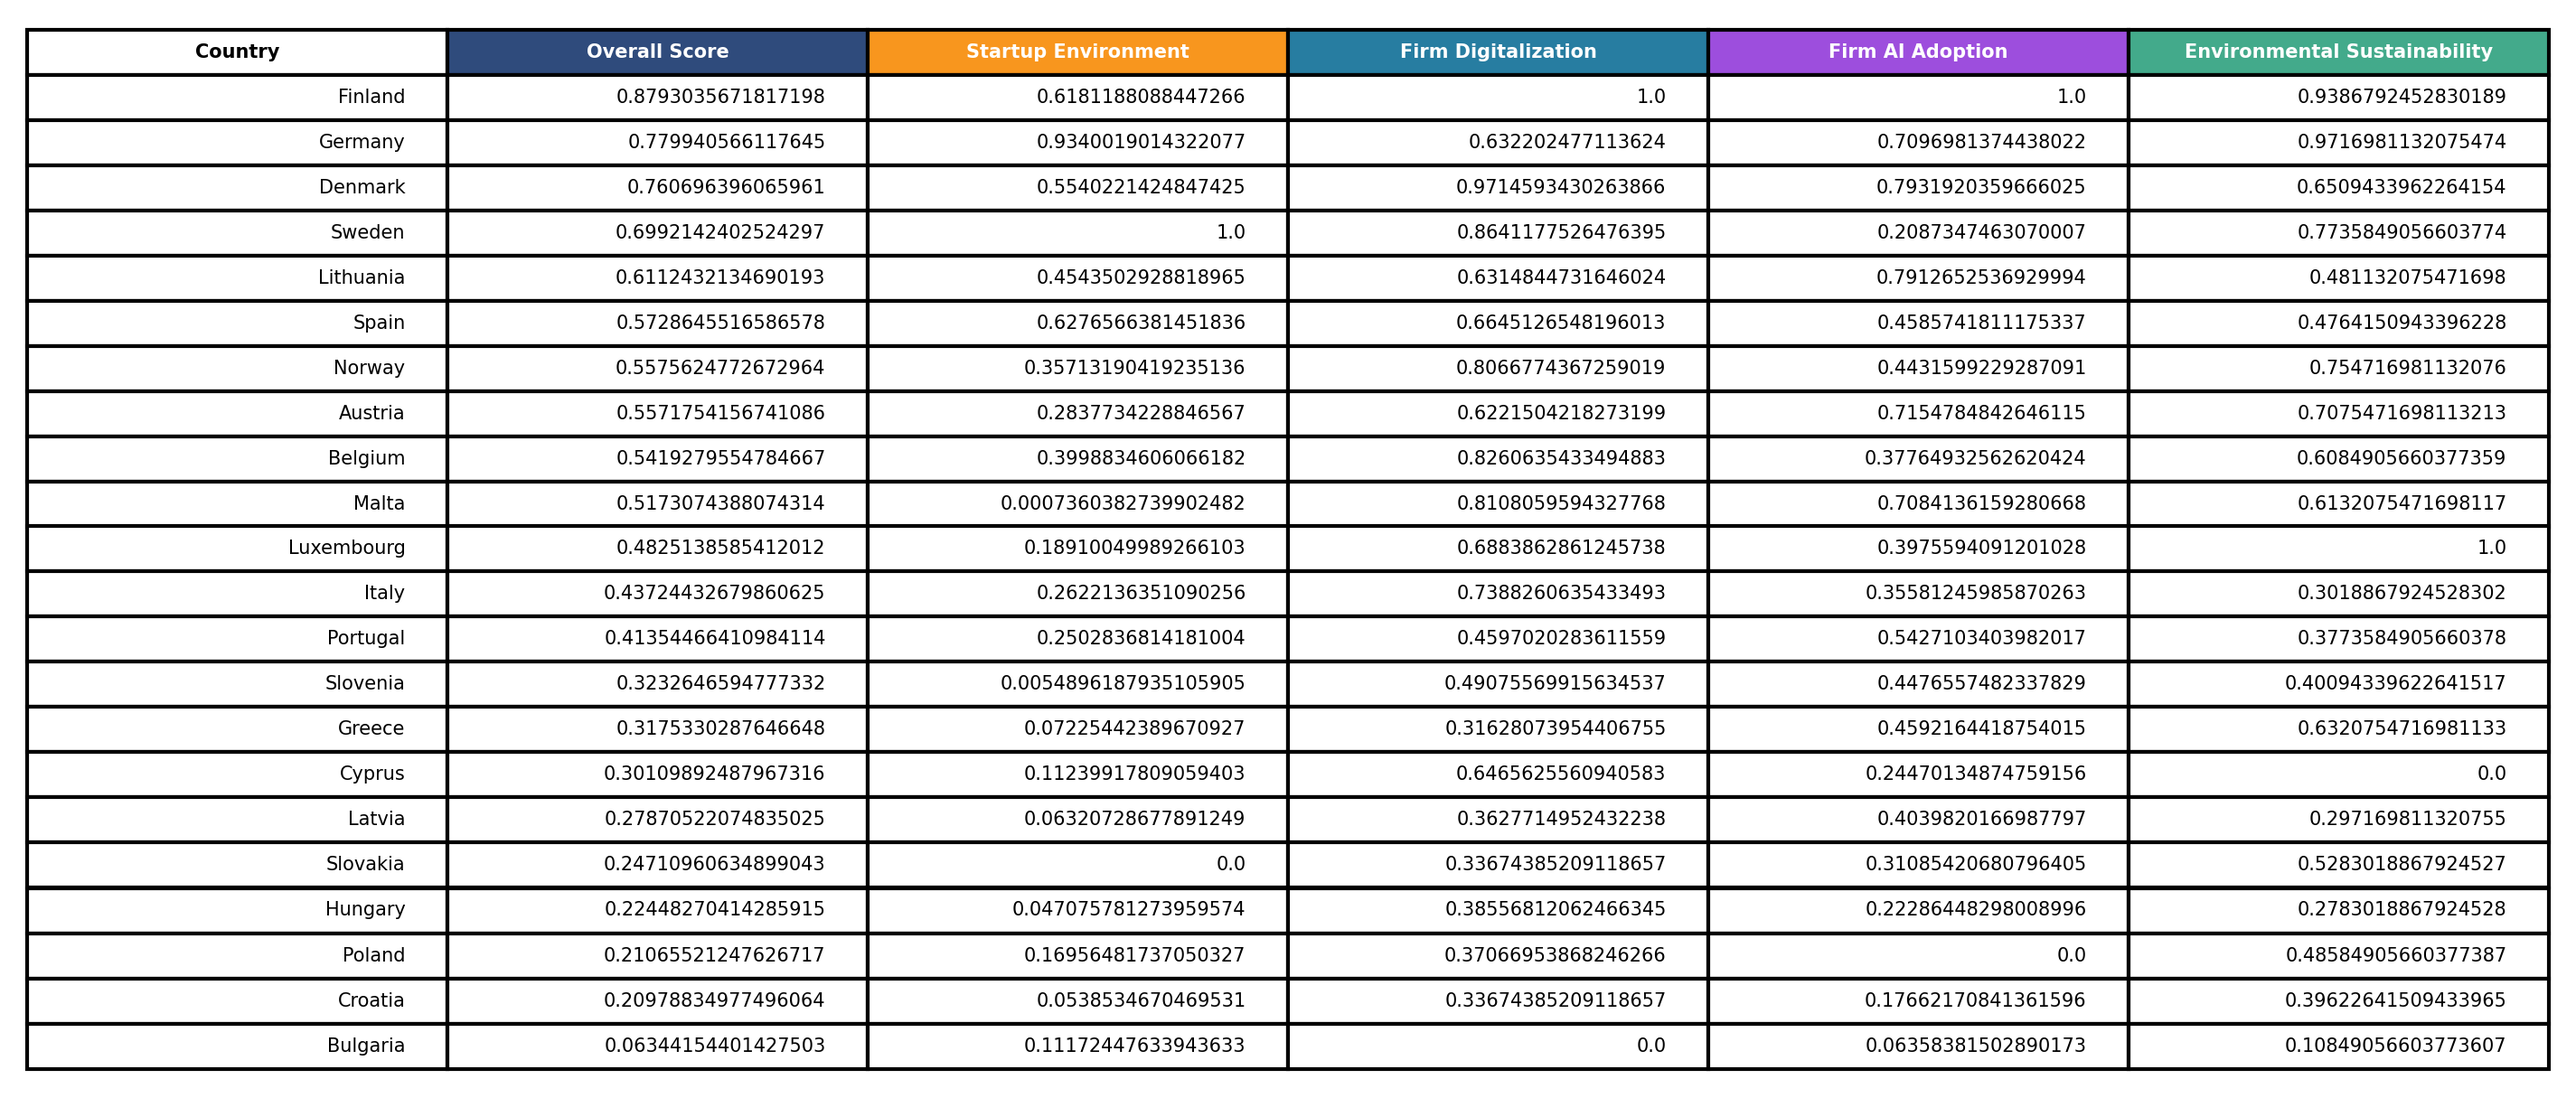
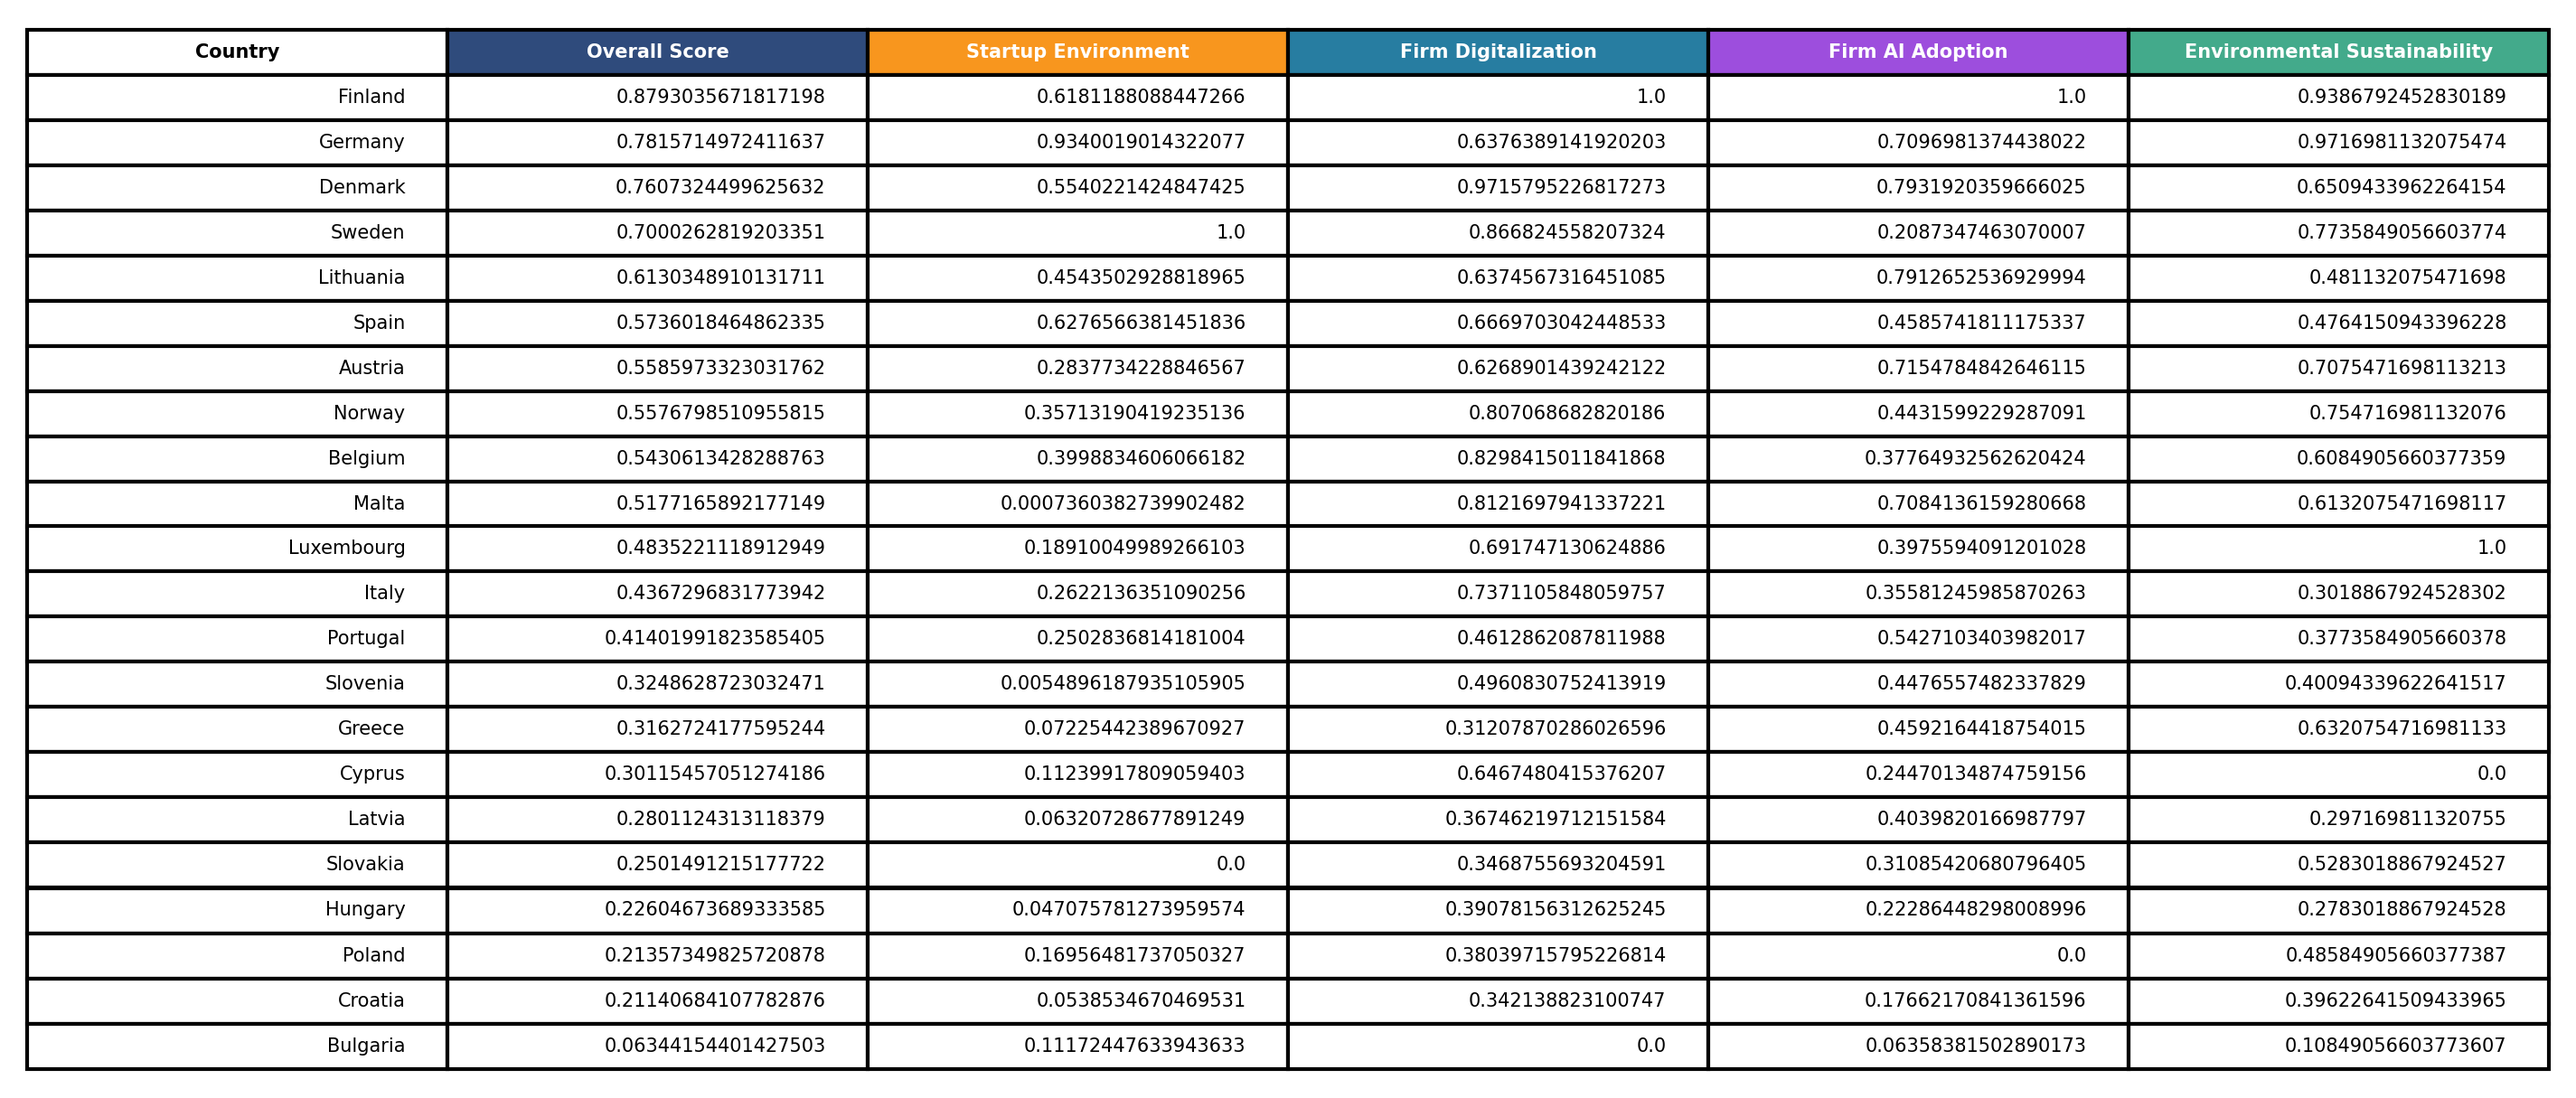
corrected filtering of digitalization of firms

diff --git a/analysis.py b/analysis.py
@@ -17,7 +17,7 @@ digital_df = digital_df[digital_columns_keep]
 digital_df['OBS_VALUE'] = pd.to_numeric(digital_df['OBS_VALUE'], errors='coerce')
 digital_df = digital_df.dropna()
 digital_df = digital_df[digital_df['TIME_PERIOD'].isin([2025])]
-digital_df = digital_df[digital_df['Size classes in number of persons employed'].str.contains("From 10 to 249 persons employed")]
+digital_df = digital_df[digital_df['Size classes in number of persons employed'].str.contains("10 persons employed or more")]
 digital_df = digital_df[digital_df['Information society indicator'].str.contains('Enterprises with at least basic level of digital intensity')]
 digital_df = digital_df.loc[:, ['Geopolitical entity (reporting)', 'OBS_VALUE']]
 digital_df.columns = ["country", "digitalization"]
@@ -71,6 +71,6 @@ for i in range(columns):
     else:
         header.set_text_props(color="white", weight="bold")
 
-# fig.savefig("analysis.png", dpi=300, bbox_inches='tight')
+fig.savefig("analysis.png", dpi=300, bbox_inches='tight')
 
 plt.show()
